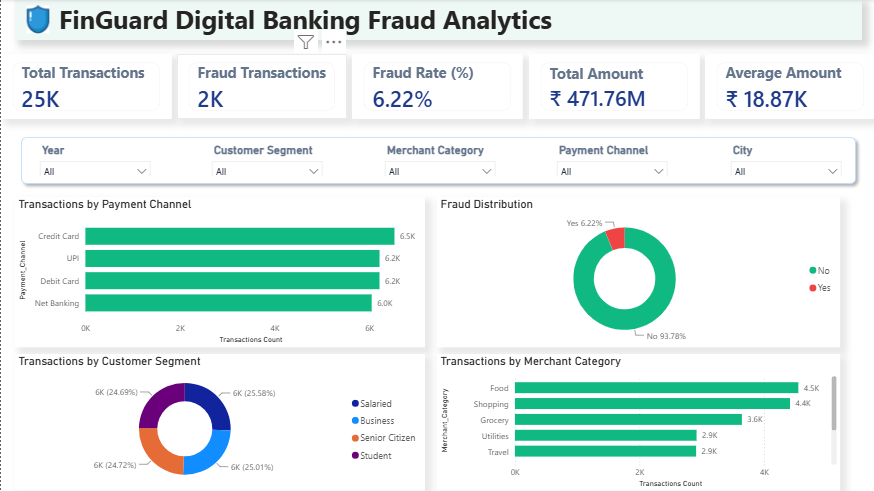
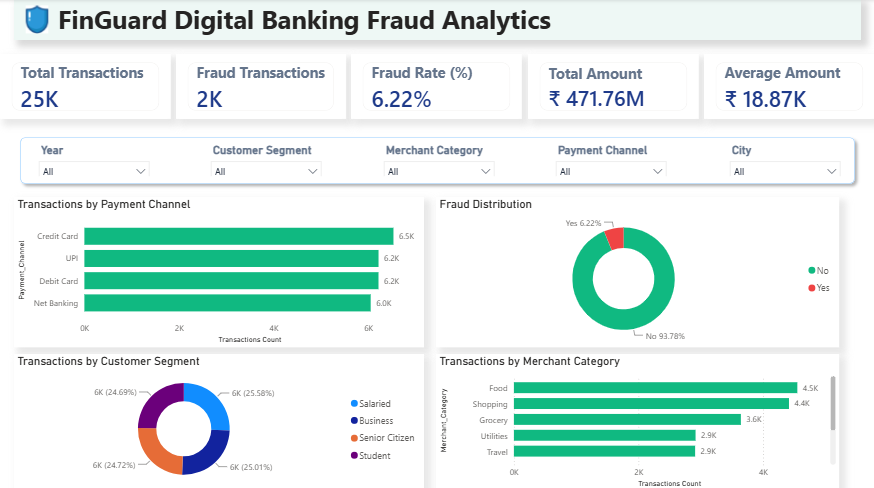
Finalize fraud analytics dashboards and project documentation

diff --git a/README.md b/README.md
@@ -1,0 +1,326 @@
+<p align="center">
+  <img src="images/finguard_banner.png" alt="FinGuard Banner" width="100%">
+</p>
+
+# 🛡️ FinGuard – Digital Banking Fraud Analytics
+
+![Python](https://img.shields.io/badge/Python-3.13-3776AB?style=for-the-badge&logo=python&logoColor=white)
+![SQLite](https://img.shields.io/badge/SQLite-003B57?style=for-the-badge&logo=sqlite&logoColor=white)
+![SQL](https://img.shields.io/badge/SQL-Data%20Analysis-orange?style=for-the-badge)
+![Power BI](https://img.shields.io/badge/Power%20BI-F2C811?style=for-the-badge&logo=powerbi&logoColor=black)
+![GitHub](https://img.shields.io/badge/GitHub-Repository-181717?style=for-the-badge&logo=github)
+
+> **An end-to-end Banking Fraud Analytics project featuring realistic synthetic data generation, SQL-based analysis, and interactive Power BI dashboards for fraud detection and business intelligence.**
+---
+
+## 📌 Project Overview
+
+FinGuard is an end-to-end Banking Fraud Analytics project that simulates realistic banking transactions, stores them in a relational database, and analyzes fraud patterns through interactive Power BI dashboards.
+
+Unlike traditional academic datasets, this project uses rule-based synthetic data generation to create realistic fraud behaviour. Risk scores and fraud labels are influenced by multiple business rules such as transaction amount, payment mode, merchant category, customer profile, transaction timing, device type, and geographic mismatch.
+
+The project demonstrates the complete analytics pipeline—from data generation to visualization—and showcases how Python, SQL, SQLite, and Power BI can be integrated to solve a real-world fraud analytics problem.
+
+---
+
+## 🎯 Objectives
+
+- Generate realistic banking transaction data using Python.
+- Simulate fraud using business-driven risk rules.
+- Store transactional data in SQLite.
+- Perform SQL-based analysis.
+- Build interactive Power BI dashboards.
+- Identify fraud trends and high-risk behaviour.
+- Demonstrate an end-to-end data analytics workflow.
+
+---
+
+## 🏗️ Project Architecture
+
+```
+
+Python Scripts
+        │
+        ▼
+Synthetic Banking Dataset
+        │
+        ▼
+SQLite Database
+        │
+        ▼
+SQL Queries
+        │
+        ▼
+Power BI Dashboards
+        │
+        ▼
+Business Insights
+
+```
+---
+
+# 🛠️ Tech Stack
+
+| Category | Technologies |
+|----------|--------------|
+| Programming Language | Python 3 |
+| Data Processing | Pandas |
+| Database | SQLite |
+| Query Language | SQL |
+| Data Visualization | Power BI |
+| Version Control | Git & GitHub |
+
+---
+
+# 📂 Project Structure
+
+```text
+FinGuard-Digital-Banking-Fraud-Analytics/
+│
+├── data/
+│   ├── customers.csv
+│   ├── merchants.csv
+│   └── transactions.csv
+│
+├── database/
+│   └── banking.db
+│
+├── docs/
+│   └── project_plan.md
+│
+├── images/
+│   ├── executive_dashboard.png
+│   └── fraud_dashboard.png
+│
+├── output/
+│
+├── PowerBi/
+│   └── FinGuard_Dashboard.pbix
+│
+├── scripts/
+│   ├── config.py
+│   ├── generate_customers.py
+│   ├── generate_merchants.py
+│   ├── generate_transactions.py
+│   └── database_loader.py
+│
+├── sql/
+│   ├── create_tables.sql
+│   └── queries.sql
+│
+├── .gitignore
+├── LICENSE
+├── README.md
+└── requirements.txt
+```
+
+---
+
+# 📊 Dataset
+
+The project consists of three synthetic datasets generated using Python.
+
+### 👤 Customers
+
+Contains customer demographic and banking information.
+
+**Important fields**
+
+- Customer ID
+- Name
+- Age
+- Gender
+- City
+- State
+- Customer Segment
+- Occupation
+- Monthly Income
+- Account Opening Year
+- Preferred Payment Mode
+- Preferred Device
+
+---
+
+### 🏪 Merchants
+
+Contains merchant information used during transactions.
+
+**Important fields**
+
+- Merchant ID
+- Merchant Name
+- Merchant Category
+- City
+- State
+
+---
+
+### 💳 Transactions
+
+Stores banking transactions generated using business rules.
+
+**Important fields**
+
+- Transaction ID
+- Customer ID
+- Merchant ID
+- Transaction Date
+- Transaction Time
+- Transaction Type
+- Amount
+- Payment Channel
+- Device Type
+- Risk Score
+- Fraud Type
+- Is Fraud
+
+---
+
+# 🧠 Rule-Based Fraud Simulation
+
+Unlike randomly generated datasets, FinGuard uses a rule-based fraud simulation model to create realistic banking transactions.
+
+The fraud probability is influenced by multiple business conditions commonly observed in banking fraud detection systems.
+
+### Business Rules
+
+- 💳 Credit Card transactions carry higher fraud risk.
+- 📱 Mobile devices slightly increase transaction risk.
+- 🛒 Shopping and Electronics merchants are considered higher-risk categories.
+- 💰 High-value transactions increase the overall risk score.
+- 🌙 Late-night transactions (10 PM – 4 AM) are considered more suspicious.
+- 👴 Senior Citizens making unusually large transactions receive additional risk.
+- 🏢 Large Business transactions contribute to higher fraud probability.
+- 🌍 Transactions occurring in a different city from the customer increase the risk score.
+
+Instead of marking every high-risk transaction as fraud, FinGuard assigns fraud probabilistically based on the calculated risk score, producing more realistic fraud patterns.
+
+---
+
+# 📊 Dashboards
+
+## Executive Dashboard
+
+![Executive Dashboard](images/executive_dashboard.png)
+
+### Highlights
+
+- Overall transaction overview
+- Fraud rate monitoring
+- Customer segmentation
+- Merchant category analysis
+- Payment channel distribution
+
+---
+
+## Fraud Investigation Dashboard
+
+![Fraud Dashboard](images/fraud_dashboard.png)
+
+### Highlights
+
+- Fraud by Payment Channel
+- Fraud Type Analysis
+- Fraud by Customer Segment
+- Average Risk Score by Merchant Category
+
+---
+
+# 📈 Key Insights
+
+- Credit Card transactions recorded the highest number of fraudulent activities.
+- Shopping merchants showed the highest average fraud risk.
+- Business customers generated the largest share of fraud transactions.
+- Fraud simulation achieved an overall fraud rate of approximately **6%**, closely resembling realistic banking environments.
+- Risk scoring combines transaction value, device type, merchant category, customer profile, transaction timing, and geographic mismatch.
+
+---
+
+# ⚙️ Installation
+
+Clone the repository:
+
+```bash
+git clone https://github.com/aashna1/FinGuard-Digital-Banking-Fraud-Analytics.git
+```
+
+Navigate to the project folder:
+
+```bash
+cd FinGuard-Digital-Banking-Fraud-Analytics
+```
+
+Install dependencies:
+
+```bash
+pip install -r requirements.txt
+```
+
+---
+
+# ▶️ How to Run
+
+Generate the synthetic datasets:
+
+```bash
+python scripts/generate_customers.py
+python scripts/generate_merchants.py
+python scripts/generate_transactions.py
+```
+
+Load the generated data into SQLite:
+
+```bash
+python scripts/database_loader.py
+```
+
+Open the Power BI dashboard:
+
+```text
+PowerBI/FinGuard_Dashboard.pbix
+```
+
+Refresh the data to explore the latest analytics dashboards.
+
+---
+
+# 🚀 Future Enhancements
+
+- Add machine learning models for fraud prediction.
+- Implement anomaly detection using Isolation Forest.
+- Integrate real-time transaction streaming.
+- Build interactive web dashboards using Streamlit.
+- Connect to cloud databases for large-scale analytics.
+- Add advanced fraud investigation reports.
+
+---
+
+# 📚 Skills Demonstrated
+
+- Python Programming
+- Data Generation & Simulation
+- Data Cleaning
+- SQL & SQLite
+- Data Modeling
+- Power BI Dashboard Development
+- Business Intelligence
+- Data Visualization
+- Fraud Analytics
+- Git & GitHub
+
+---
+
+# 👩💻 Author
+
+**Aashna Kashyap**
+
+B.Tech Computer Science Engineering  
+Netaji Subhas University of Technology (NSUT)
+
+GitHub: https://github.com/aashna1
+
+---
+
+<p align="center">
+⭐ Thank you for visiting this repository!
+</p>